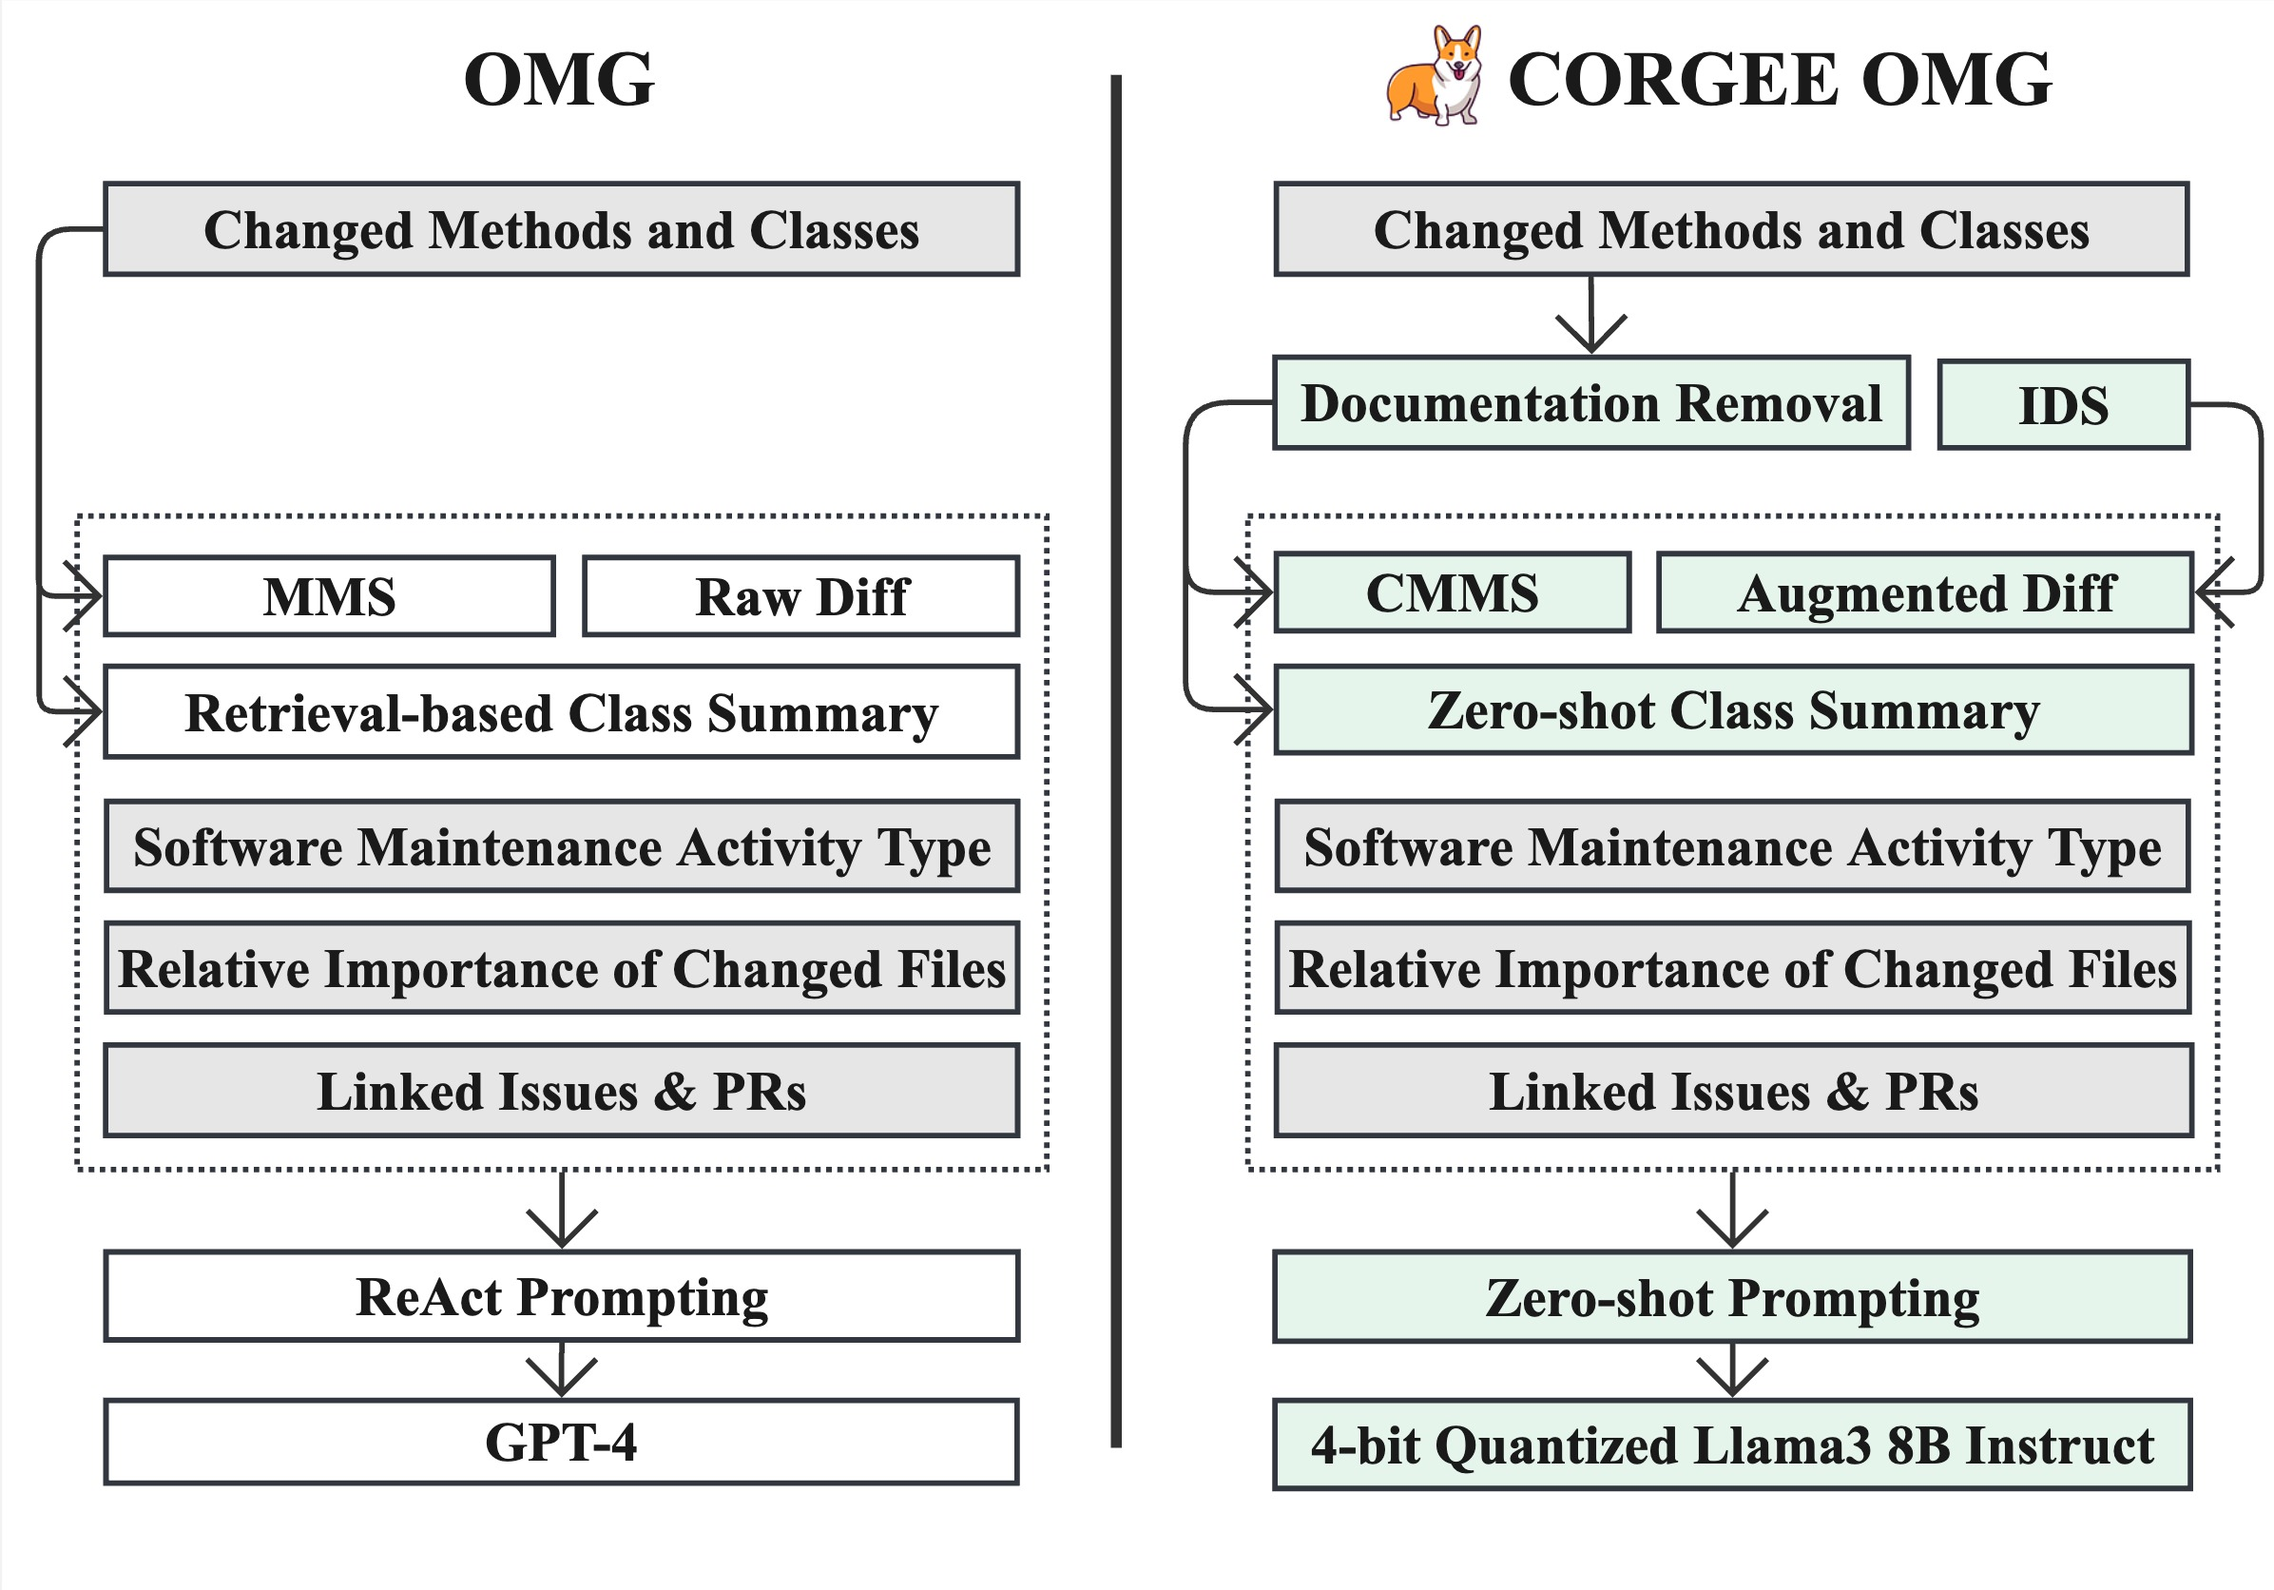
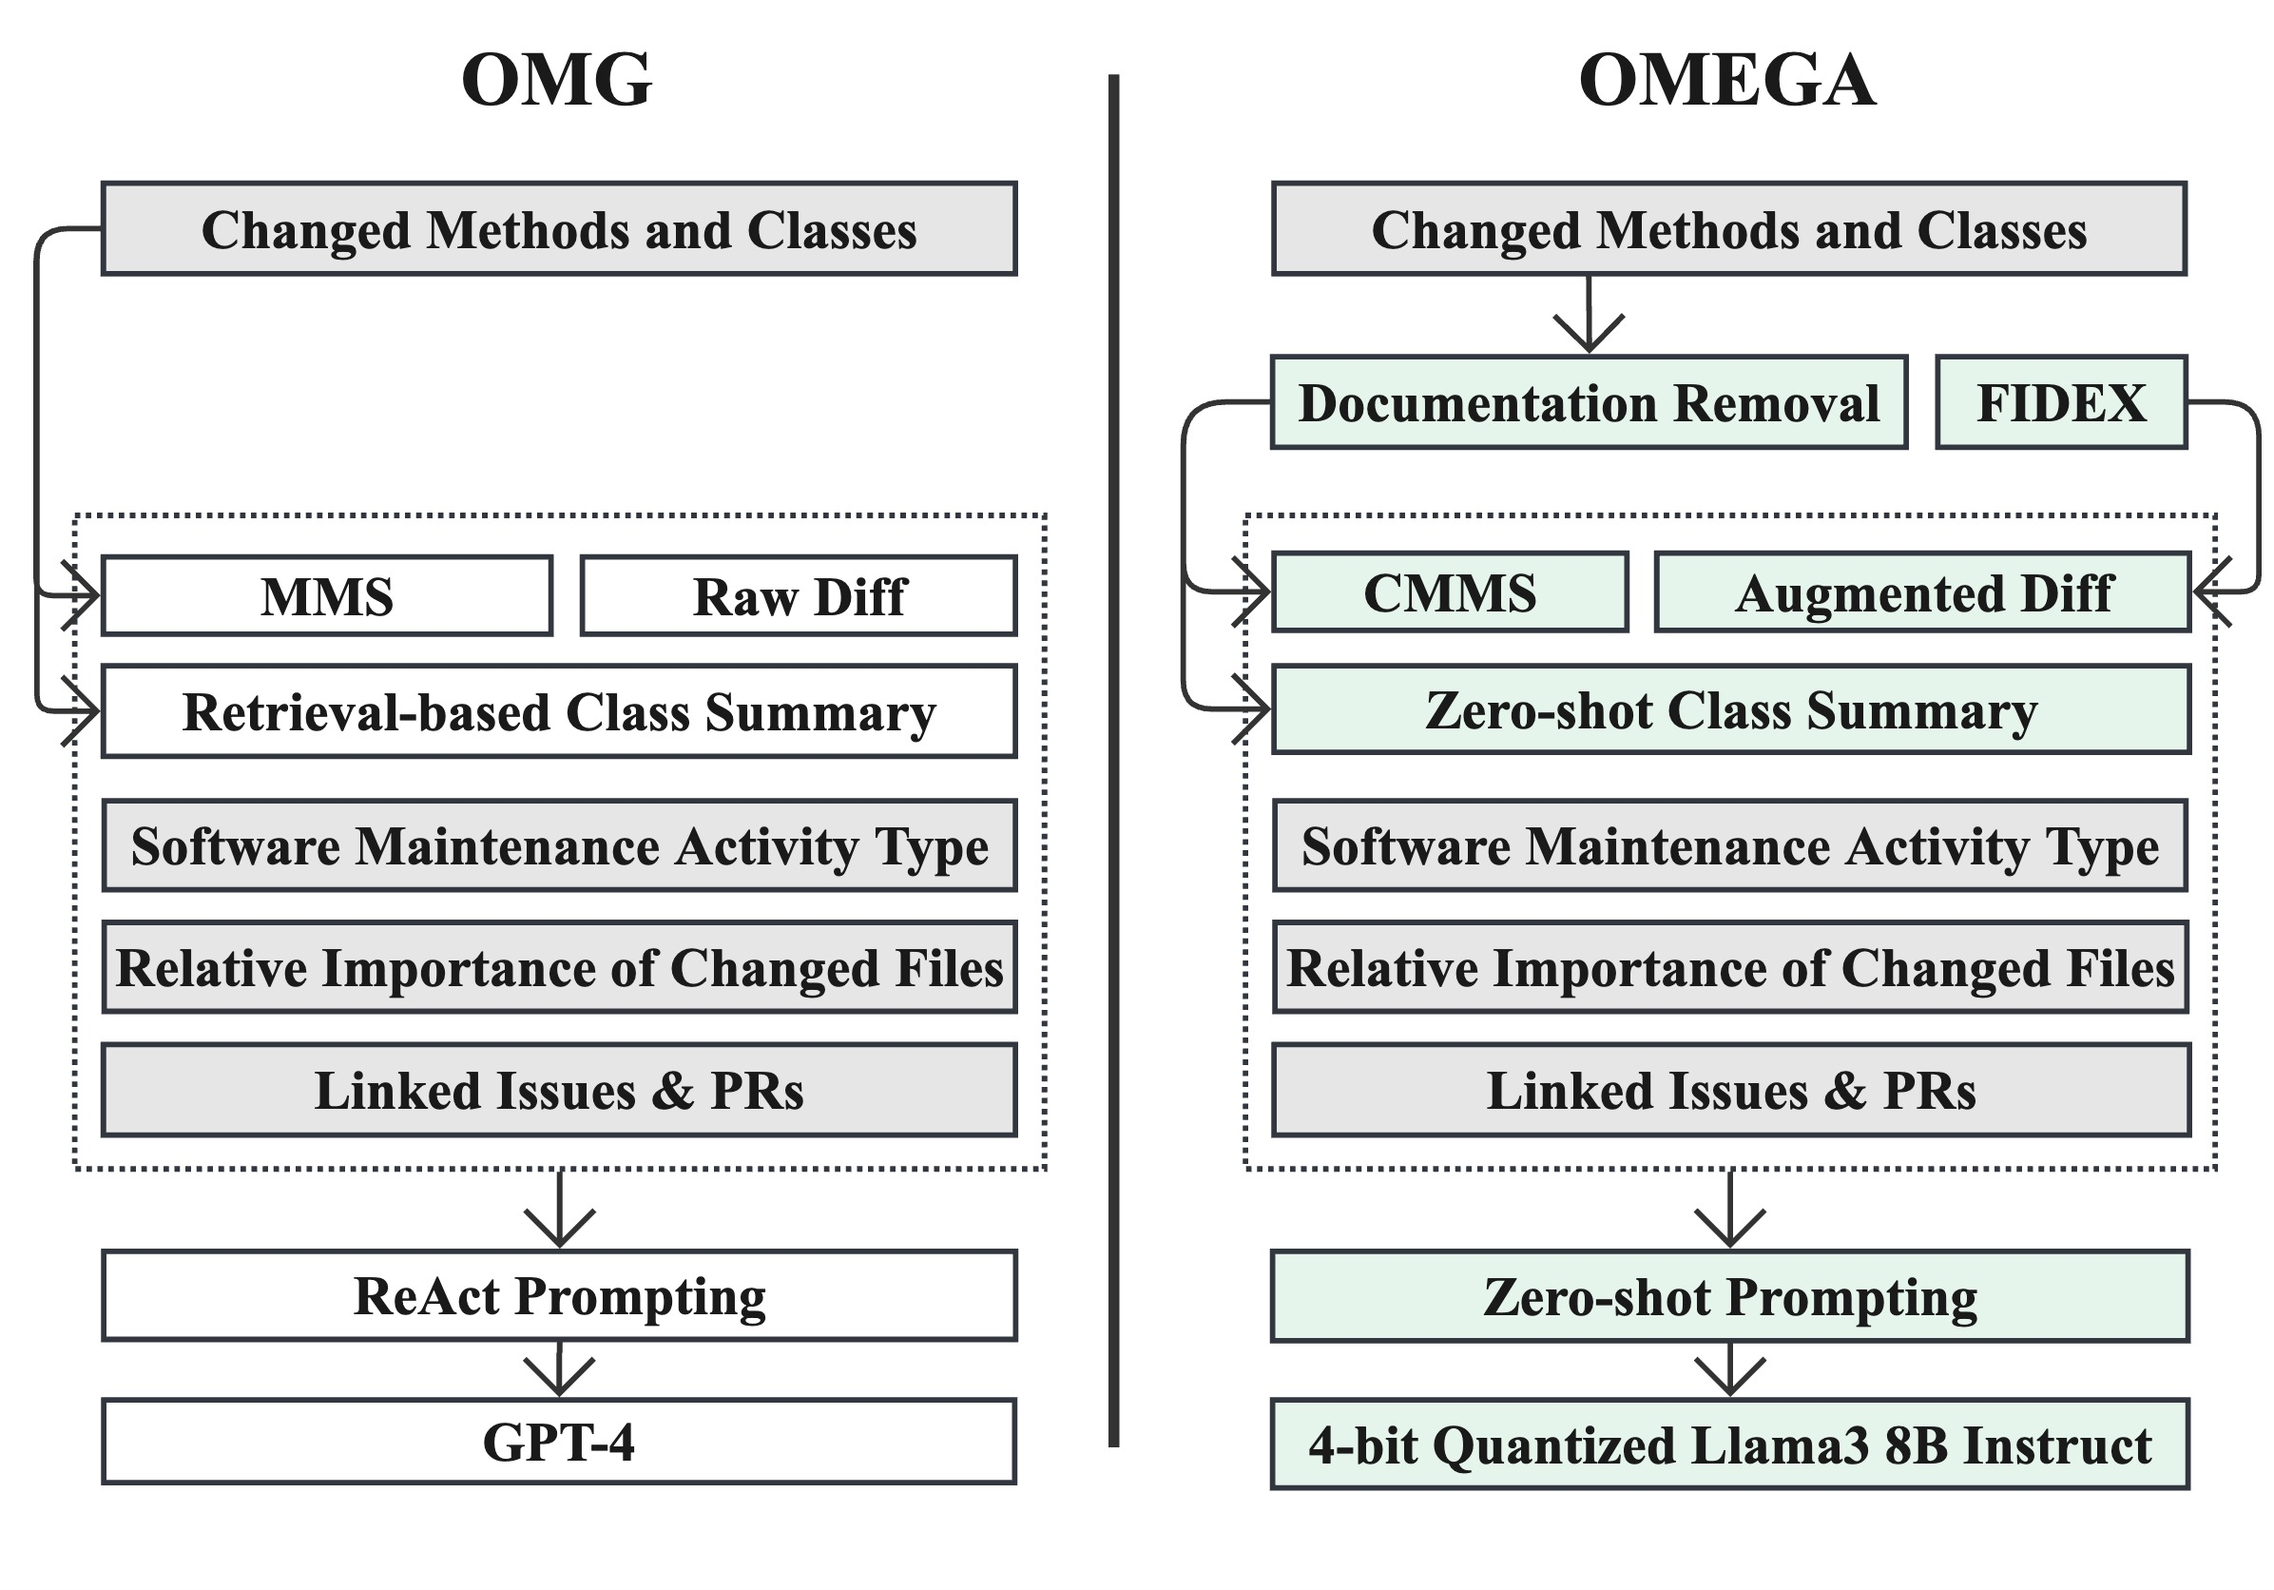
Updated CMG approach name

diff --git a/survey-3/process_xlsx.py b/survey-3/process_xlsx.py
@@ -81,7 +81,7 @@ data["Winner"] = data.idxmax(axis=1)
 data.index.name = "Criterion"
 cols = ["AMG", "Identical", "OMG", "Winner"]
 data = data[cols]
-data.rename(columns={"AMG": "Llama3 8B AWQ"}, inplace=True)
+data.rename(columns={"AMG": "OMEGA"}, inplace=True)
 data.to_csv("output/summary.csv")
 
 # plt.figure(dpi=100)
@@ -110,9 +110,7 @@ ax.set_yticklabels(
     fontsize=11,
     fontweight="bold",
 )
-ax.set_title(
-    "Human Evaluation Results of Llama3 8B AWQ VS OMG", fontsize=14, fontweight="bold"
-)
+ax.set_title("Human Evaluation Results of OMEGA VS OMG", fontsize=14, fontweight="bold")
 plt.xticks(fontsize=11, fontweight="bold")
 
 

diff --git a/README.md b/README.md
@@ -1,13 +1,11 @@
-<img src="corgee.png" width="256" style="display: block; margin-left: auto; margin-right: auto;" alt="Corgi icon designed by Triberion from Flaticon"/>
-
 # Context Conquers Parameters: Outperforming Proprietary LLM in Commit Message Generation
 
-<img src="us-vs-omg.jpg" width="750" style="display: block; margin-left: auto; margin-right: auto;" alt="Corgi icon designed by Triberion from Flaticon" alt="CORGEE OMG" />
+<img src="us-vs-omg.jpg" width="750" style="display: block; margin-left: auto; margin-right: auto;" alt="Corgi icon designed by Triberion from Flaticon" alt="omega OMG" />
 
 ## Candidate Models
 
 ### Candidate OLLMs
-
+`
 - [Llama3 70B Instruct AWQ](https://huggingface.co/TechxGenus/Meta-Llama-3-70B-Instruct-AWQ})
 - [DeepSeek-Coder 33B AWQ](https://huggingface.co/TheBloke/deepseek-coder-33B-instruct-AWQ)
 
@@ -115,7 +113,7 @@ Reported in the paper.
 
 ```bash
 cd CMG
-REMOVE_COMMENTS=FALSE METHOD_SUMMARIES=OLD python corgee.py ../data/omg_data_preprocessed.csv all
+REMOVE_COMMENTS=FALSE METHOD_SUMMARIES=OLD python omega.py ../data/omg_data_preprocessed.csv all
 ```
 
 ### RQ2
@@ -128,7 +126,7 @@ REMOVE_COMMENTS=FALSE METHOD_SUMMARIES=OLD python corgee.py ../data/omg_data_pre
 
 ```bash
 cd CMG
-python corgee.py ../data/omg_data_preprocessed.csv all
+python omega.py ../data/omg_data_preprocessed.csv all
 ```
 
 ### RQ3
@@ -141,12 +139,12 @@ python corgee.py ../data/omg_data_preprocessed.csv all
 
 ```bash
 cd CMG
-python corgee.py ../data/omg_data_preprocessed.csv all --dn
+python omega.py ../data/omg_data_preprocessed.csv all --dn
 ```
 
 4. Run following command to use FIDEX-generated Diff Summary:
 
 ```bash
 cd CMG
-python corgee.py ../data/omg_data_preprocessed.csv all --fidex
+python omega.py ../data/omg_data_preprocessed.csv all --fidex
 ```
